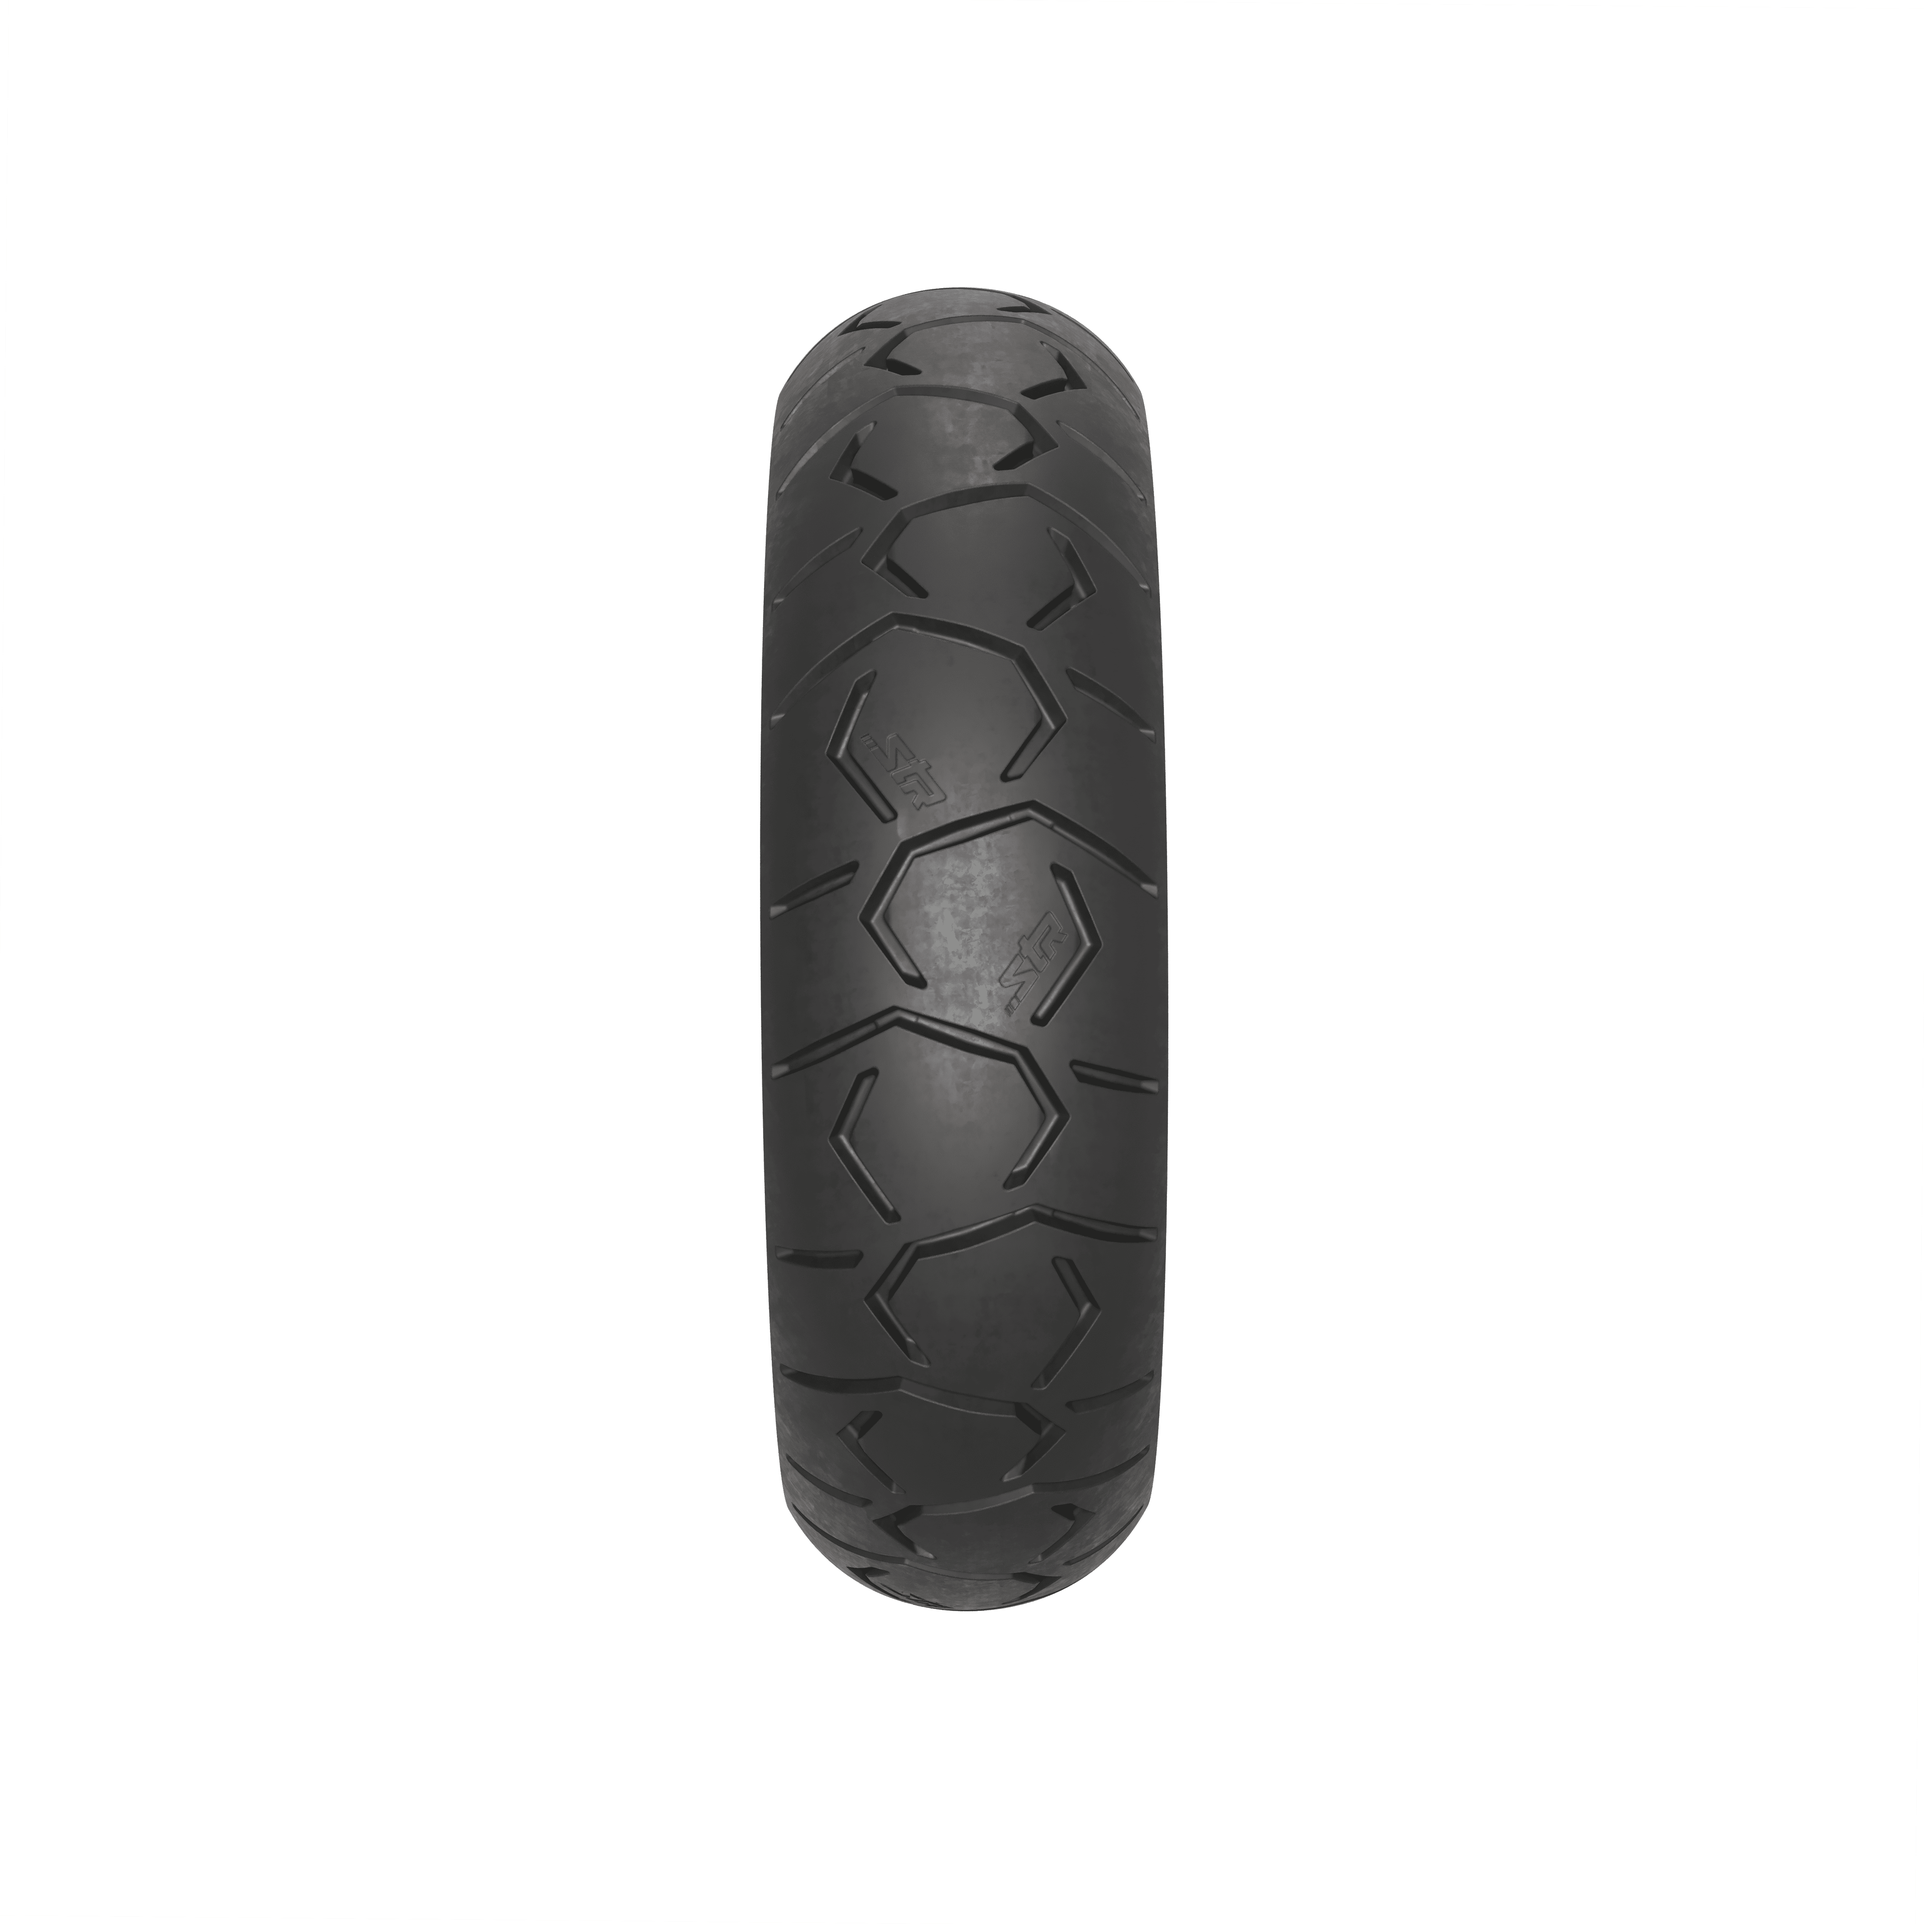
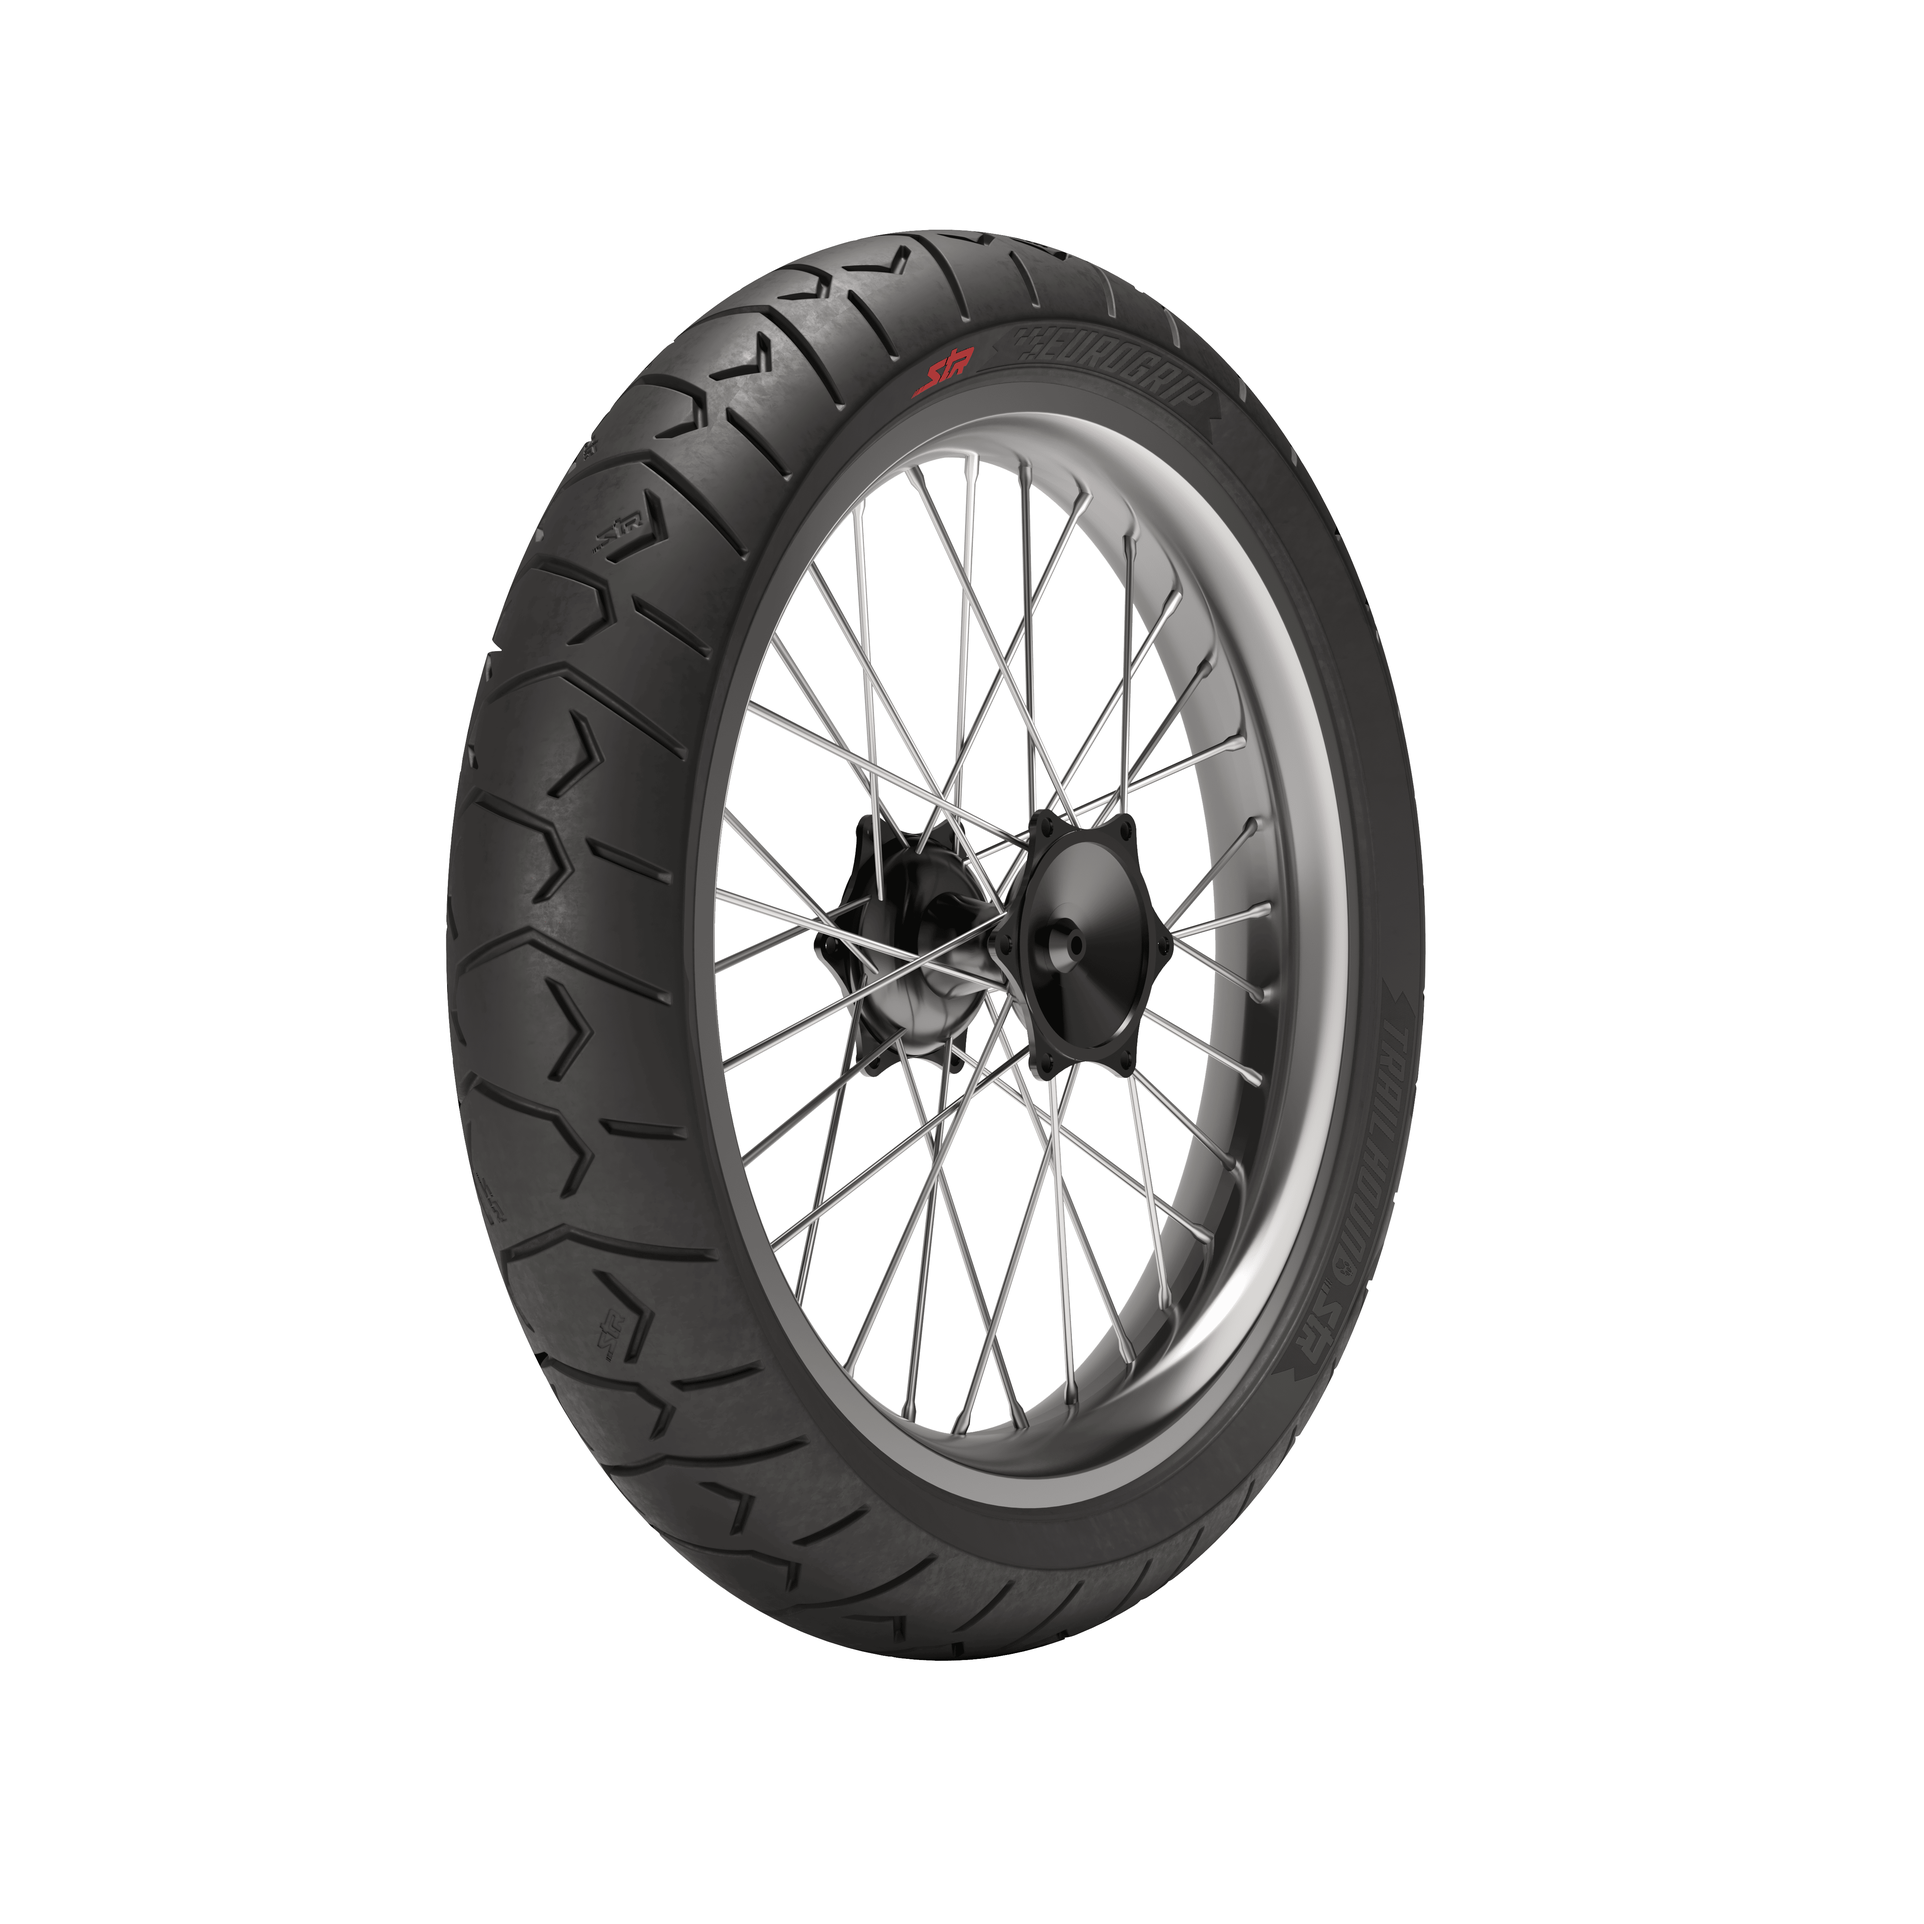
feat: Update product images to local assets and enhance their display styling.

Changed region(s): [[0.2184, 0.0936, 0.7488, 0.8736]]

diff --git a/index.html b/index.html
@@ -154,9 +154,9 @@
                 <!-- Card 1: Bee Connect -->
                 <div
                     class="bg-euro-dark rounded-xl overflow-hidden hover:transform hover:-translate-y-2 transition-all duration-300 border border-slate-800 hover:border-euro-amber group">
-                    <div class="h-48 overflow-hidden relative">
-                        <img src="https://placehold.co/600x400/222/FFF?text=Bee+Connect" alt="Bee Connect"
-                            class="w-full h-full object-cover group-hover:scale-110 transition-transform duration-500">
+                    <div class="h-56 overflow-hidden relative bg-white">
+                        <img src="./assets/bee-connect/001.jpeg" alt="Bee Connect"
+                            class="w-full h-full object-contain p-4 group-hover:scale-110 transition-transform duration-500">
                         <div
                             class="absolute top-4 left-4 bg-euro-amber text-euro-navy text-xs font-bold px-3 py-1 rounded-full">
                             SCOOTER</div>
@@ -174,9 +174,9 @@
                 <!-- Card 2: Bee Connect UHP -->
                 <div
                     class="bg-euro-dark rounded-xl overflow-hidden hover:transform hover:-translate-y-2 transition-all duration-300 border border-slate-800 hover:border-euro-amber group">
-                    <div class="h-48 overflow-hidden relative">
-                        <img src="https://placehold.co/600x400/222/FFF?text=Bee+Connect+UHP" alt="Bee Connect UHP"
-                            class="w-full h-full object-cover group-hover:scale-110 transition-transform duration-500">
+                    <div class="h-56 overflow-hidden relative bg-white">
+                        <img src="./assets/bee-connect-UHP/001.png" alt="Bee Connect UHP"
+                            class="w-full h-full object-contain p-4 group-hover:scale-110 transition-transform duration-500">
                         <div
                             class="absolute top-4 left-4 bg-euro-amber text-euro-navy text-xs font-bold px-3 py-1 rounded-full">
                             SCOOTER HIGH-PERFORMANCE</div>
@@ -194,9 +194,9 @@
                 <!-- Card 3: Roadhound -->
                 <div
                     class="bg-euro-dark rounded-xl overflow-hidden hover:transform hover:-translate-y-2 transition-all duration-300 border border-slate-800 hover:border-euro-amber group">
-                    <div class="h-48 overflow-hidden relative">
-                        <img src="https://placehold.co/600x400/222/FFF?text=Roadhound" alt="Roadhound"
-                            class="w-full h-full object-cover group-hover:scale-110 transition-transform duration-500">
+                    <div class="h-56 overflow-hidden relative bg-white">
+                        <img src="./assets/roadhound/001.png" alt="Roadhound"
+                            class="w-full h-full object-contain p-4 group-hover:scale-110 transition-transform duration-500">
                         <div
                             class="absolute top-4 left-4 bg-blue-500 text-white text-xs font-bold px-3 py-1 rounded-full">
                             SPORT TOURING</div>
@@ -213,9 +213,9 @@
                 <!-- Card 4: Protorq Extreme -->
                 <div
                     class="bg-euro-dark rounded-xl overflow-hidden hover:transform hover:-translate-y-2 transition-all duration-300 border border-slate-800 hover:border-euro-amber group">
-                    <div class="h-48 overflow-hidden relative">
-                        <img src="https://placehold.co/600x400/222/FFF?text=Protorq+Extreme" alt="Protorq Extreme"
-                            class="w-full h-full object-cover group-hover:scale-110 transition-transform duration-500">
+                    <div class="h-56 overflow-hidden relative bg-white">
+                        <img src="./assets/protorq-extreme/001.jpeg" alt="Protorq Extreme"
+                            class="w-full h-full object-contain p-4 group-hover:scale-110 transition-transform duration-500">
                         <div
                             class="absolute top-4 left-4 bg-red-600 text-white text-xs font-bold px-3 py-1 rounded-full">
                             RACING / SPORT</div>
@@ -233,9 +233,9 @@
                 <!-- Card 5: Trailhound SCR -->
                 <div
                     class="bg-euro-dark rounded-xl overflow-hidden hover:transform hover:-translate-y-2 transition-all duration-300 border border-slate-800 hover:border-euro-amber group">
-                    <div class="h-48 overflow-hidden relative">
-                        <img src="https://placehold.co/600x400/222/FFF?text=Trailhound+SCR" alt="Trailhound SCR"
-                            class="w-full h-full object-cover group-hover:scale-110 transition-transform duration-500">
+                    <div class="h-56 overflow-hidden relative bg-white">
+                        <img src="./assets/trailhound-SCR/001.png" alt="Trailhound SCR"
+                            class="w-full h-full object-contain p-4 group-hover:scale-110 transition-transform duration-500">
                         <div
                             class="absolute top-4 left-4 bg-green-600 text-white text-xs font-bold px-3 py-1 rounded-full">
                             SCRAMBLER</div>
@@ -253,9 +253,9 @@
                 <!-- Card 6: Trailhound STR -->
                 <div
                     class="bg-euro-dark rounded-xl overflow-hidden hover:transform hover:-translate-y-2 transition-all duration-300 border border-slate-800 hover:border-euro-amber group">
-                    <div class="h-48 overflow-hidden relative">
-                        <img src="https://placehold.co/600x400/222/FFF?text=Trailhound+STR" alt="Trailhound STR"
-                            class="w-full h-full object-cover group-hover:scale-110 transition-transform duration-500">
+                    <div class="h-56 overflow-hidden relative bg-white">
+                        <img src="./assets/trailhound-STR/001.png" alt="Trailhound STR"
+                            class="w-full h-full object-contain p-4 group-hover:scale-110 transition-transform duration-500">
                         <div
                             class="absolute top-4 left-4 bg-green-700 text-white text-xs font-bold px-3 py-1 rounded-full">
                             ADVENTURE</div>
